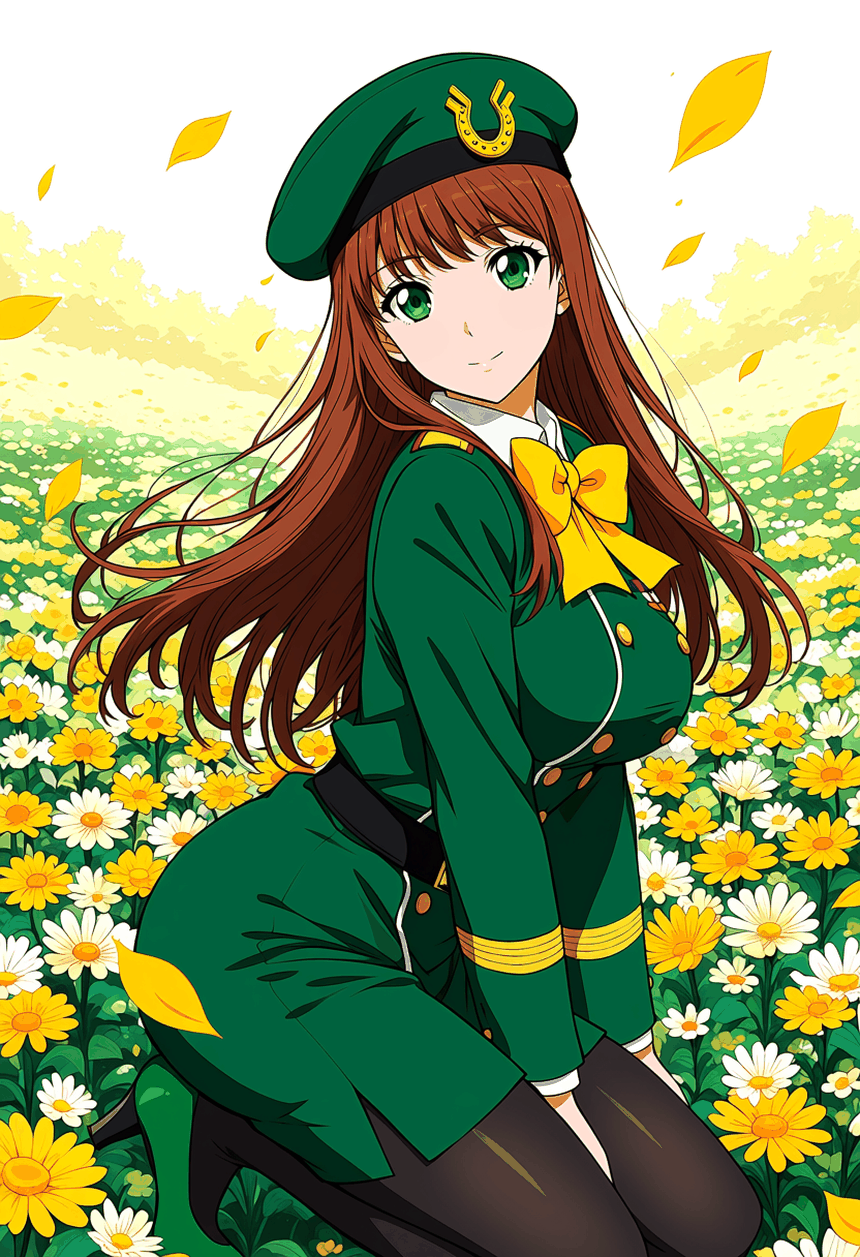
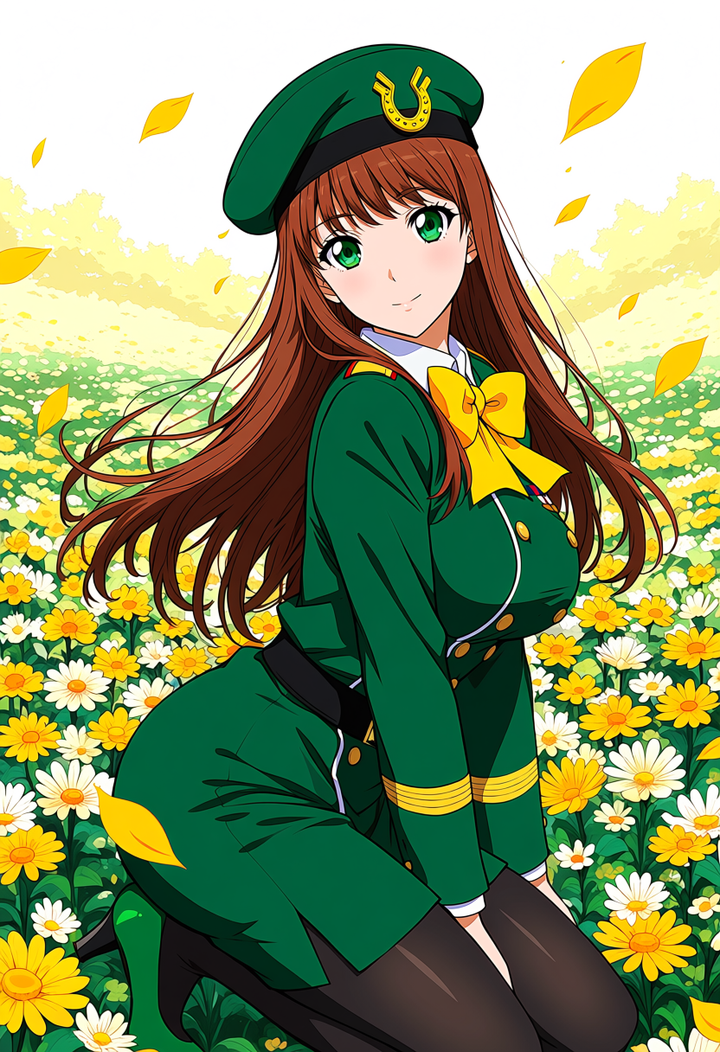
fix(0.2.56): 画风演示图取消量化（修正偏色）+ 柔光预览对齐 3D 手办版

diff --git a/RELEASE_NOTES_0.2.56.md b/RELEASE_NOTES_0.2.56.md
@@ -1,26 +1,27 @@
-# Lumen Studio Flow v0.2.55
+# Lumen Studio Flow v0.2.56
 
 完全免费、为爱发电的本地 AI 绘画工作台。Electron + ComfyUI + Anima，本地优先，不上传素材。
 
-## 修复：高清化后丢失生成参数
+## 画风演示图：取消颜色量化，修正偏色
 
-现象：高清化出来的作品，详情页里提示词、步数、CFG、种子、模型全是空。
+之前为了压体积把预览图做了 256 色量化，副作用是**颜色被压偏**——2.5D 柔光那张的绿眼被压成了青蓝。
 
-原因：高清化时写的新 json 只记录了放大信息，没有继承原图的生成元数据。
-
-修复：
+现在：
 
 ```text
-1. 高清化写 json 时先读取原图同名 json，整份继承
-   （prompt / negativePrompt / seed / steps / cfg / model / lora …）
-   再叠加放大字段：upscaled / source / factor / engine / sourceWidth / sourceHeight / width / height
-2. 详情页在放大作品上额外显示：
-   模式行：高清化 2× · AI 模型
-   尺寸行：832 × 1216 → 1664 × 2432
+人物类 18 张重新导出：不量化、RGB 直出，竖图 720 宽、横图 1000 宽
+风景类 6 张保持原图不动
+总体积 6.8MB → 17.3MB（换回准确颜色）
 ```
 
-注意：**在此之前已经高清化过的旧文件**，其 json 已经被覆盖，参数无法追回；
-重新高清化一次即可带上完整信息（原图仍在的话）。
+同时确认 2.5D 两张演示图都是「3D 手办 + 柔光 / 3D 建模」方向：
+
+```text
+2.5D 厚涂   平整、哑光、建模感强
+2.5D 柔光   体积光 + 轮廓光 + 湿皮肤反光，绿眼肤色准确
+```
+
+两者都是原创角色：棕长发、绿眼、不戴帽、无马耳。
 
 ## 安装
 
@@ -28,7 +29,7 @@
 
 离线用户可使用 `build_offline_bundle.ps1` 生成独立完整运行环境包，安装后在设置中指向解压目录。
 
-1. 运行 `Lumen-Studio-Flow-Setup-0.2.55.exe`
+1. 运行 `Lumen-Studio-Flow-Setup-0.2.56.exe`
 2. 安装会创建桌面快捷方式
 3. 运行 `bootstrap_models.ps1` 自动拉取 Anima Base / Qwen3 / VAE
 4. 将 `Anima-2.9B-preview-v1.safetensors` 放入 `models/diffusion_models`

diff --git a/handoff-0.2.56-final/RELEASE_NOTES_0.2.56.md b/handoff-0.2.56-final/RELEASE_NOTES_0.2.56.md
@@ -1,0 +1,49 @@
+# Lumen Studio Flow v0.2.56
+
+完全免费、为爱发电的本地 AI 绘画工作台。Electron + ComfyUI + Anima，本地优先，不上传素材。
+
+## 画风演示图：取消颜色量化，修正偏色
+
+之前为了压体积把预览图做了 256 色量化，副作用是**颜色被压偏**——2.5D 柔光那张的绿眼被压成了青蓝。
+
+现在：
+
+```text
+人物类 18 张重新导出：不量化、RGB 直出，竖图 720 宽、横图 1000 宽
+风景类 6 张保持原图不动
+总体积 6.8MB → 17.3MB（换回准确颜色）
+```
+
+同时确认 2.5D 两张演示图都是「3D 手办 + 柔光 / 3D 建模」方向：
+
+```text
+2.5D 厚涂   平整、哑光、建模感强
+2.5D 柔光   体积光 + 轮廓光 + 湿皮肤反光，绿眼肤色准确
+```
+
+两者都是原创角色：棕长发、绿眼、不戴帽、无马耳。
+
+## 安装
+
+发布包是单安装器。首次启动如果缺少 ComfyUI / Python，会弹出“一键部署完整环境”，自动下载约 8GB 的 ComfyUI、Python、Anima Base、Qwen3、VAE 和节点。
+
+离线用户可使用 `build_offline_bundle.ps1` 生成独立完整运行环境包，安装后在设置中指向解压目录。
+
+1. 运行 `Lumen-Studio-Flow-Setup-0.2.56.exe`
+2. 安装会创建桌面快捷方式
+3. 运行 `bootstrap_models.ps1` 自动拉取 Anima Base / Qwen3 / VAE
+4. 将 `Anima-2.9B-preview-v1.safetensors` 放入 `models/diffusion_models`
+5. 在设置中确认 ComfyUI / Python / F 盘输出目录
+
+## 本地生成
+
+本地 ComfyUI 生成无次数限制；外部 API 仅在 `engine=api` 时使用。
+
+## 模型与 LoRA
+
+- 25d_anima_v5
+- hand_anima_v1
+- foot_anima_v4
+- fabric_anima_v3
+
+GitHub：https://github.com/7ather-LX/lumen-studio-flow
